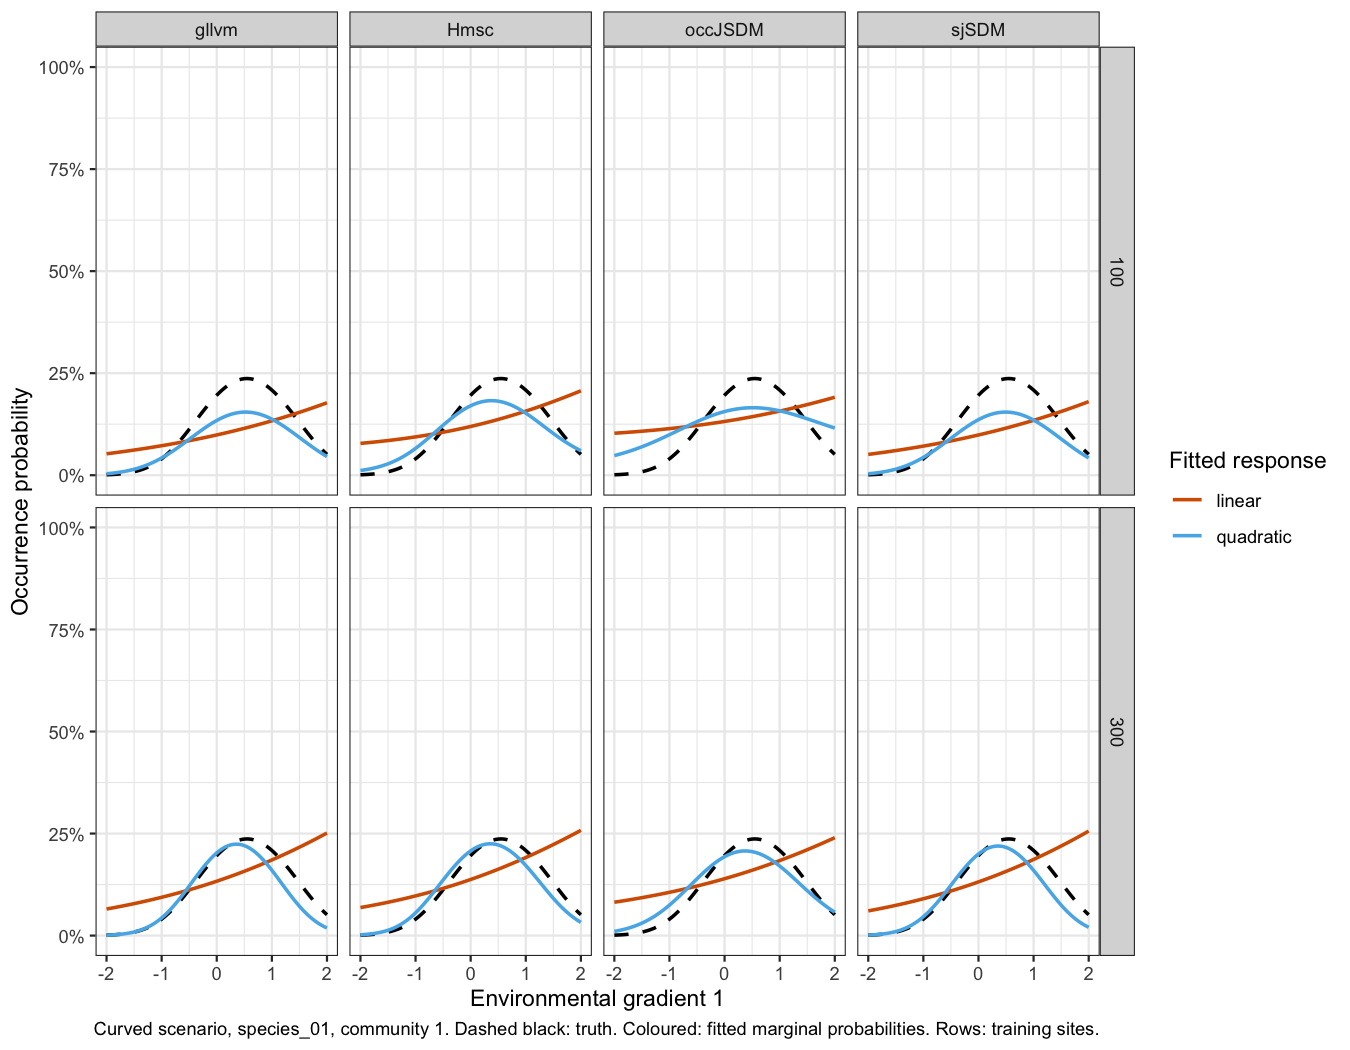
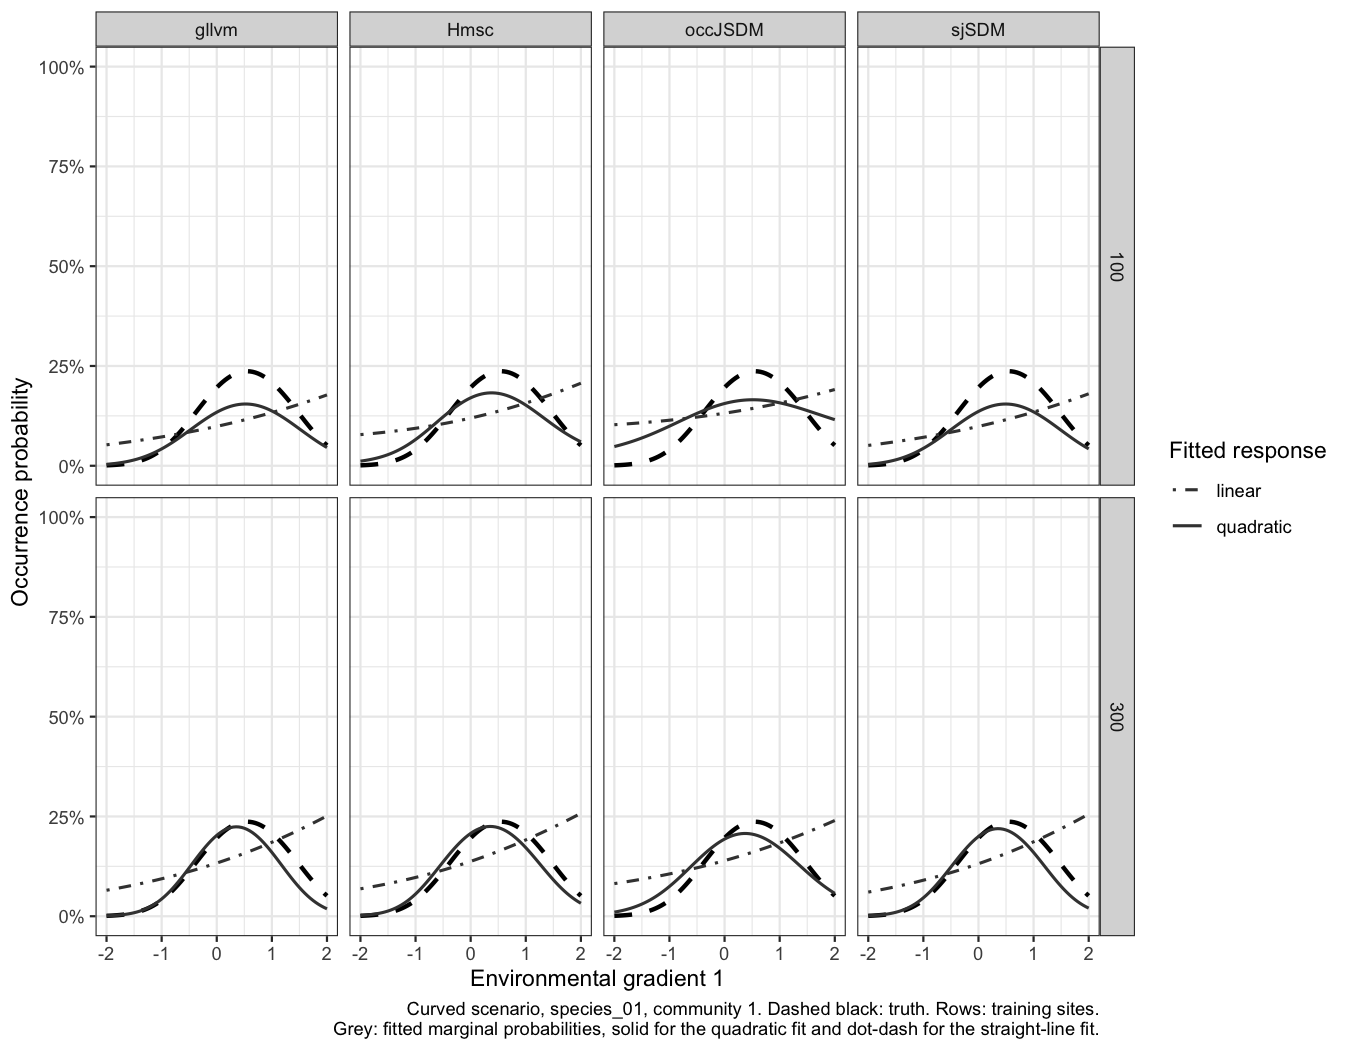
Give each lesson colour one meaning across Lessons 1, 2, 6 and 7
Lesson 6 draws the fitted response by line type in grey, so sky blue and
red-orange mean only 100 and 300 training sites. Lesson 7's arms follow
Lesson 2: oracle black, true-state fit blue, eDNA-survey fit red-orange.
Lesson 2's more permissive priors are grey, not the bluish green that
means a true detection. Lesson 1 calls #D55E00 "red-orange".

diff --git a/vignettes/occJSDM-lesson-2.md b/vignettes/occJSDM-lesson-2.md
@@ -154,7 +154,7 @@ fit_labels <- c(
 fit_colours <- c(
   perfect = "#0072B2",
   default = "#D55E00",
-  alternative = "#009E73"
+  alternative = "grey40"
 )
 
 # A shape for each prior setting, so the prior comparison does not rely on colour alone.
@@ -1150,8 +1150,8 @@ ggplot(case_comparison, aes(x = estimate, y = case, colour = arm, shape = arm)) 
 ```
 
 <figure>
-<img src="occJSDM-lesson-2_files/figure-gfm/prior-sensitivity-cases-1.png" alt="Each estimate is a posterior probability about an actual 0/1 state. Black crosses reveal those states. The coloured circle and triangle use exactly the same PCR observations but different contamination priors. These probabilities are not estimates of the true occupancy probability." />
-<figcaption aria-hidden="true">Each estimate is a posterior probability about an actual 0/1 state. Black crosses reveal those states. The coloured circle and triangle use exactly the same PCR observations but different contamination priors. These probabilities are not estimates of the true occupancy probability.</figcaption>
+<img src="occJSDM-lesson-2_files/figure-gfm/prior-sensitivity-cases-1.png" alt="Each estimate is a posterior probability about an actual 0/1 state. Black crosses reveal those states. The red-orange circle and grey triangle use exactly the same PCR observations but different contamination priors. These probabilities are not estimates of the true occupancy probability." />
+<figcaption aria-hidden="true">Each estimate is a posterior probability about an actual 0/1 state. Black crosses reveal those states. The red-orange circle and grey triangle use exactly the same PCR observations but different contamination priors. These probabilities are not estimates of the true occupancy probability.</figcaption>
 </figure>
 
 Under the alternative priors, the field-stage false-positive case receives 0.6% probability of site presence, close to its 0.7% under the default priors. Although this case is rejected under both priors, loosening the contamination priors does not resolve field-stage false positives across the survey. Their mean site probability is 41.4% under the alternative priors, against 47.4% under the default priors, because the ambiguity is in the data, not the prior. Across all 1,000 species-site pairs, mean absolute occupancy error changes from 15.4 to 16.2 percentage points. The alternative priors therefore worsen overall recovery in this dataset. We did not tune them to get any particular answer. On your own survey, refitting under a more permissive contamination prior is a way to see whether your key conclusions depend on the contamination assumption.

diff --git a/vignettes/occJSDM-lesson-6.md b/vignettes/occJSDM-lesson-6.md
@@ -32,10 +32,11 @@ package_order <- c("occJSDM", "gllvm", "sjSDM", "Hmsc")
 # Each package keeps its Lesson 5 colour and shape.
 package_colours <- c(occJSDM = "#0072B2", gllvm = "#E69F00", sjSDM = "#009E73", Hmsc = "#CC79A7")
 package_shapes <- c(occJSDM = 16, gllvm = 17, sjSDM = 15, Hmsc = 18)
-# Figures that already place packages on an axis or in panels use the two colours
-# no package uses, so a colour there never looks like a package.
+# Training-site counts use the two colours no package uses, so in figures that
+# also show packages a site colour never looks like a package.
 site_colours <- c("100" = "#56B4E9", "300" = "#D55E00")
-response_colours <- c(linear = "#D55E00", quadratic = "#56B4E9")
+# The fitted response is shown by line type, so these colours keep one meaning.
+response_linetypes <- c(quadratic = "solid", linear = "dotdash")
 
 # Keep the registered ternary theme elements valid when vignettes share a session.
 theme_set(ggtern::theme_bw(base_size = 12))
@@ -340,16 +341,16 @@ if (nrow(extension$fitted_curves) > 0) {
   extension$fitted_curves |>
     as_tibble() |>
     ggplot(aes(environment)) +
-    geom_line(aes(y = truth), colour = "black", linetype = "dashed", linewidth = 0.8) +
-    geom_line(aes(y = estimate, colour = response), linewidth = 0.8) +
+    geom_line(aes(y = truth), colour = "black", linetype = "dashed", linewidth = 1) +
+    geom_line(aes(y = estimate, linetype = response), colour = "grey25", linewidth = 0.7) +
     facet_grid(n_sites ~ package) +
-    scale_colour_manual(values = response_colours) +
+    scale_linetype_manual(values = response_linetypes) +
     scale_y_continuous(labels = scales::percent, limits = c(0, 1)) +
     labs(
       x = "Environmental gradient 1",
       y = "Occurrence probability",
-      colour = "Fitted response",
-      caption = "Curved scenario, species_01, community 1. Dashed black: truth. Coloured: fitted marginal probabilities. Rows: training sites."
+      linetype = "Fitted response",
+      caption = "Curved scenario, species_01, community 1. Dashed black: truth. Rows: training sites.\nGrey: fitted marginal probabilities, solid for the quadratic fit and dot-dash for the straight-line fit."
     ) +
     theme_bw()
 }

diff --git a/vignettes/occJSDM-lesson-7.md b/vignettes/occJSDM-lesson-7.md
@@ -93,8 +93,9 @@ arrangement_labels <- c(spread = "Spread at random", pairs = "Spread plus close 
 arm_labels <- c(oracle = "Oracle: true states, known parameters",
                 binary = "occJSDM: true states", two_stage = "occJSDM: eDNA survey")
 # Okabe-Ito colours and a shape for each arm, so the arms stay distinct
-# for readers with colour-vision deficiency.
-arm_colours <- setNames(c("#0072B2", "#D55E00", "#009E73"), arm_labels)
+# for readers with colour-vision deficiency. As in Lesson 2, blue is the fit
+# given true states and red-orange the fit to the eDNA survey.
+arm_colours <- setNames(c("#000000", "#0072B2", "#D55E00"), arm_labels)
 arm_shapes <- setNames(c(16, 17, 15), arm_labels)
 group_labels <- c(prevalence_5pct = "5% species", prevalence_25pct = "25% species",
                   prevalence_75pct = "75% species")

diff --git a/vignettes/occJSDM-lesson-1.md b/vignettes/occJSDM-lesson-1.md
@@ -328,7 +328,7 @@ ggplot(replicate_design, aes(samples, chance_of_missing)) +
   scale_y_continuous(labels = scales::percent, limits = c(0, NA)) +
   labs(x = "Field samples per site", y = "Chance of missing a present species",
        title = "With this detection probability, how many samples does a site need?",
-       caption = "Orange: this survey's samples per site. Dashed line: a 5% chance of missing.")
+       caption = "Red-orange: this survey's samples per site. Dashed line: a 5% chance of missing.")
 ```
 
 ![](occJSDM-lesson-1_files/figure-gfm/replicate-design-1.png)<!-- -->
